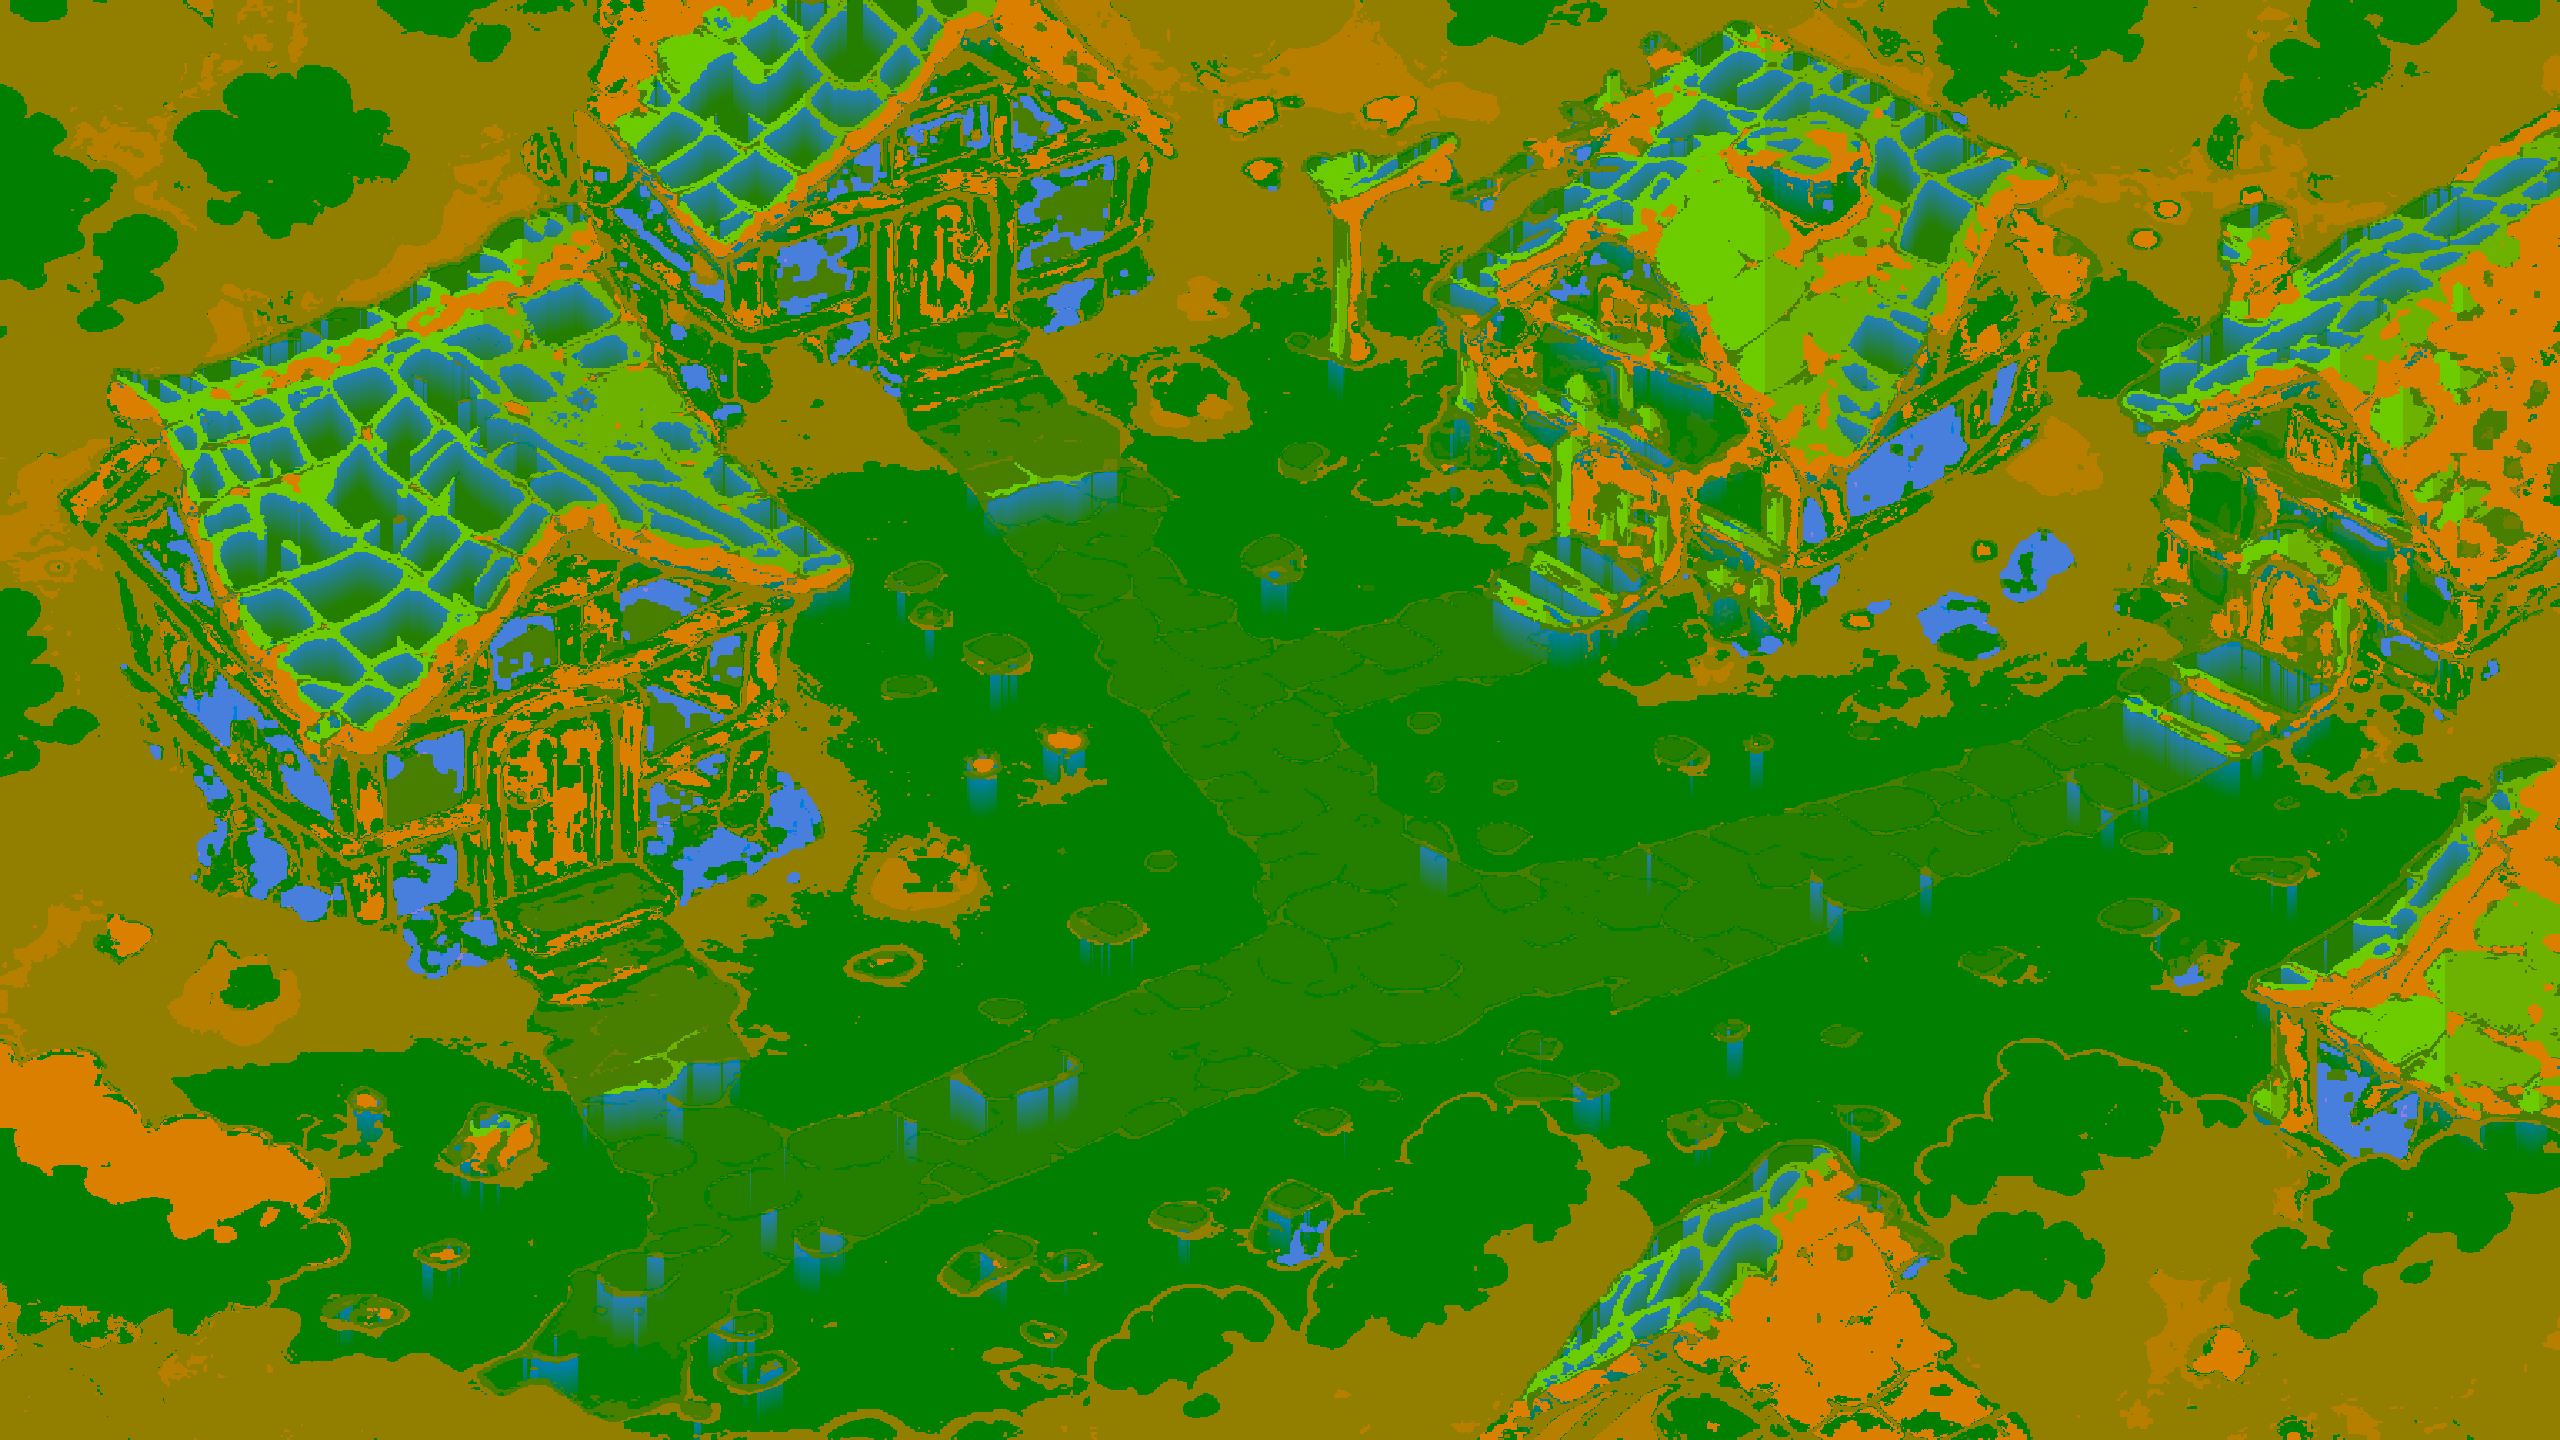
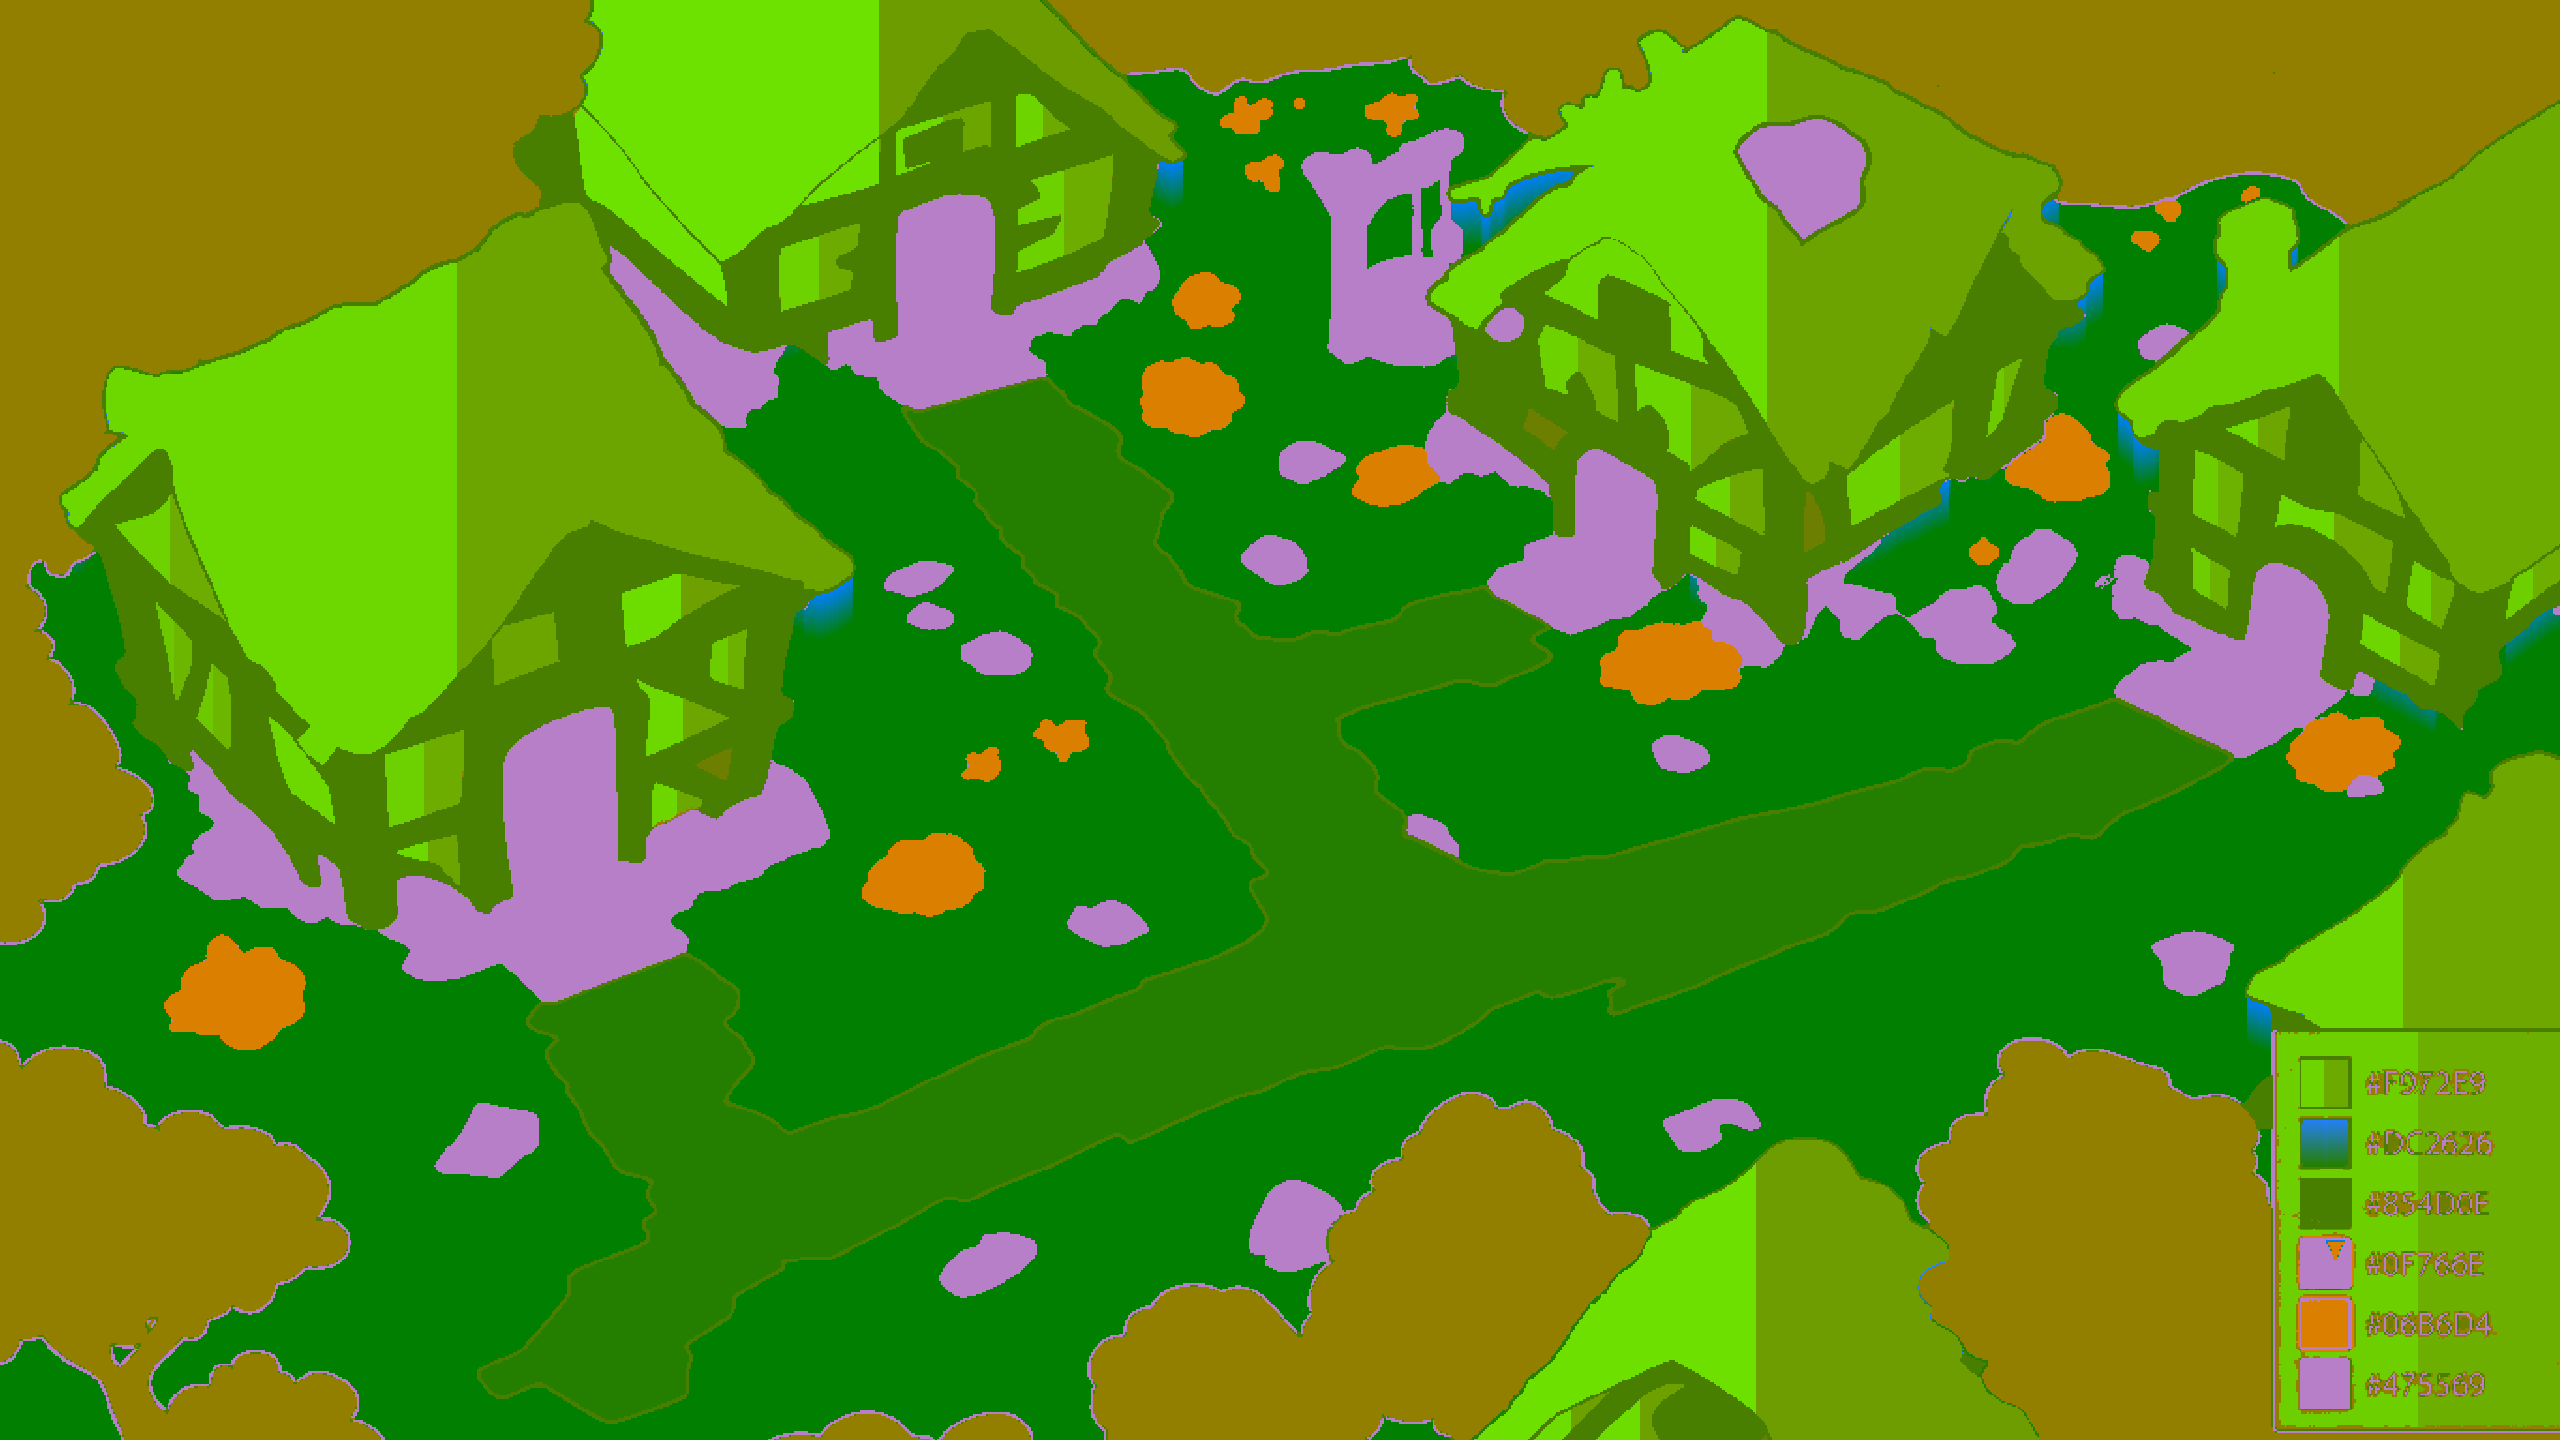
feat(v8): Hand-painted material map + empirical color transform
Material map now generated from USER'S HAND-PAINTED DIAGRAM (1782824829119.png)
instead of fragile HSV auto-segmentation. The diagram uses clear color codes:
  Orange = Roof, Red = Stone, Brown = Wood, Purple = Forest,
  Green = Grass, Teal = Windows (emissive), Cyan = Flowers

This eliminates ALL misclassification artifacts (house walls as grass, etc.)
because the material assignment comes from human judgment, not heuristics.

Shader still uses v7 empirical linear transform (storm = a*dry + b per material)
derived from the user's reference image pair.

v8 storm vs reference: brightness 62.0 vs 65.8 (within 6%)

diff --git a/game/src/desktopMain/kotlin/game/ScreenshotHarness.kt b/game/src/desktopMain/kotlin/game/ScreenshotHarness.kt
@@ -2932,7 +2932,7 @@ private fun captureVillageMaterialWeather() {
         val filter = game.shader.MaterialWeatherFilter(time = 1.0f, weatherState = 0.0f)
         filter.setMaterialMap(matBitmap.toBMP32())
         bg.filter = filter
-        save("village_weather_v7_sun")
+        save("village_weather_v8_sun")
     }
 
     // Rain (moderate, wind from left)
@@ -2944,7 +2944,7 @@ private fun captureVillageMaterialWeather() {
         val filter = game.shader.MaterialWeatherFilter(time = 4.0f, weatherState = 0.6f, windAngle = 0.3f)
         filter.setMaterialMap(matBitmap.toBMP32())
         bg.filter = filter
-        save("village_weather_v7_rain")
+        save("village_weather_v8_rain")
     }
 
     // Storm (heavy rain, strong wind, maximum effects)
@@ -2956,7 +2956,7 @@ private fun captureVillageMaterialWeather() {
         val filter = game.shader.MaterialWeatherFilter(time = 7.0f, weatherState = 1.0f, windAngle = 0.5f)
         filter.setMaterialMap(matBitmap.toBMP32())
         bg.filter = filter
-        save("village_weather_v7_storm")
+        save("village_weather_v8_storm")
     }
 }
 